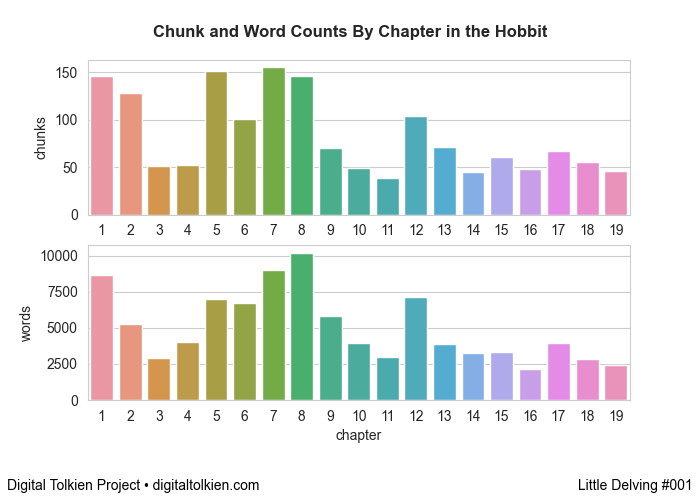
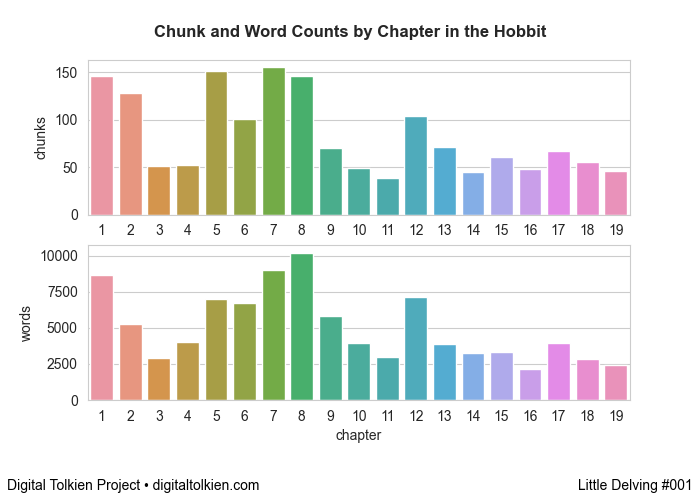
tweaked title

Changed region(s): [[0.21, 0.03, 0.78, 0.09]]

diff --git a/001/chart.py b/001/chart.py
@@ -18,7 +18,7 @@ sns.barplot(y="chunks", x="chapter", data=df, ax=ax1)
 sns.barplot(y="words", x="chapter", data=df, ax=ax2)
 
 ax1.set_xlabel("")
-f.suptitle("Chunk and Word Counts By Chapter in the Hobbit", y=0.95, weight='semibold')
+f.suptitle("Chunk and Word Counts by Chapter in the Hobbit", y=0.95, weight='semibold')
 
 f.text(0.01, 0.02, "Digital Tolkien Project • digitaltolkien.com", size='medium', color='black', weight='medium')
 f.text(0.99, 0.02, "Little Delving #001", horizontalalignment='right', size='medium', color='black', weight='medium')
